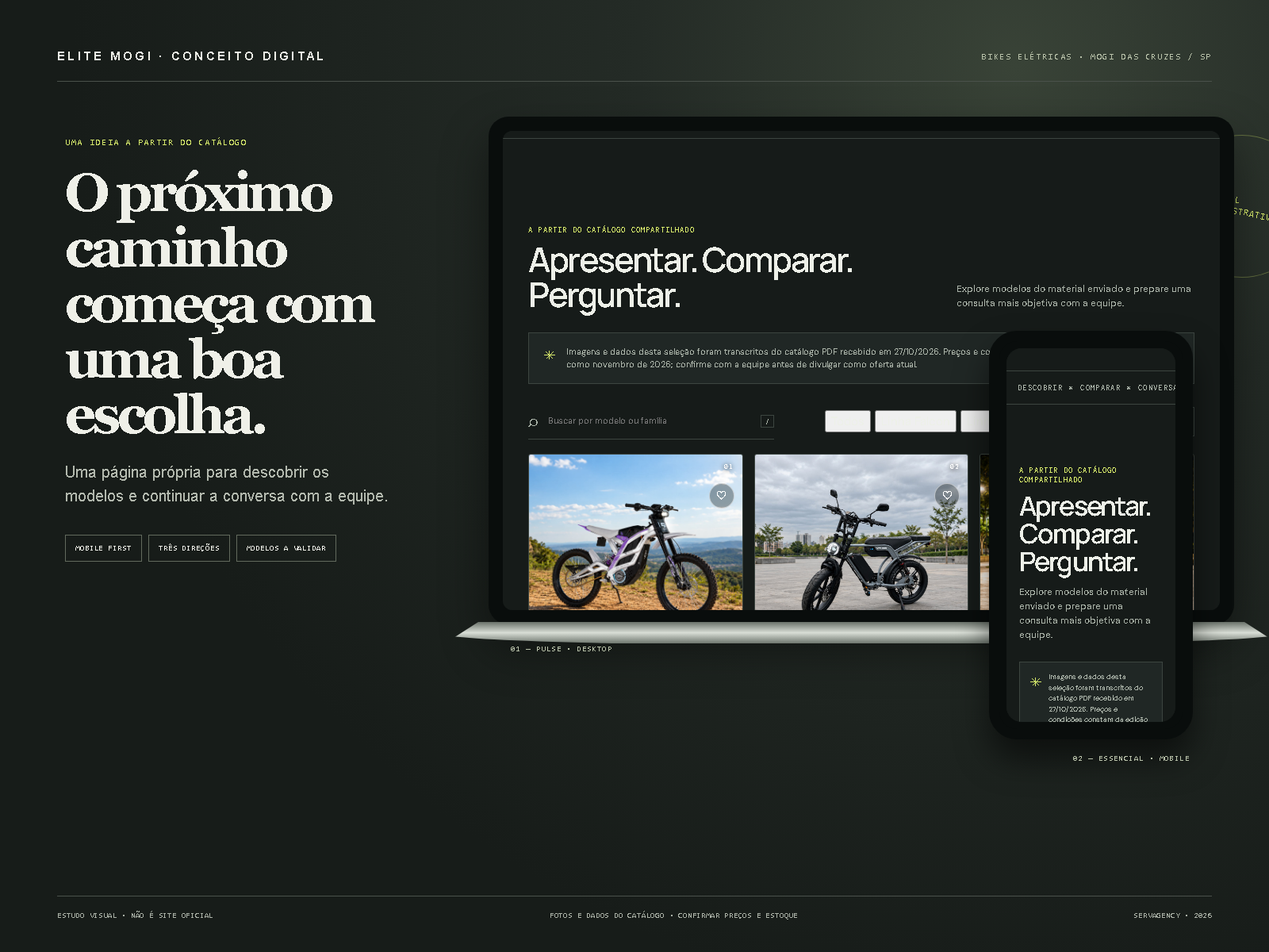
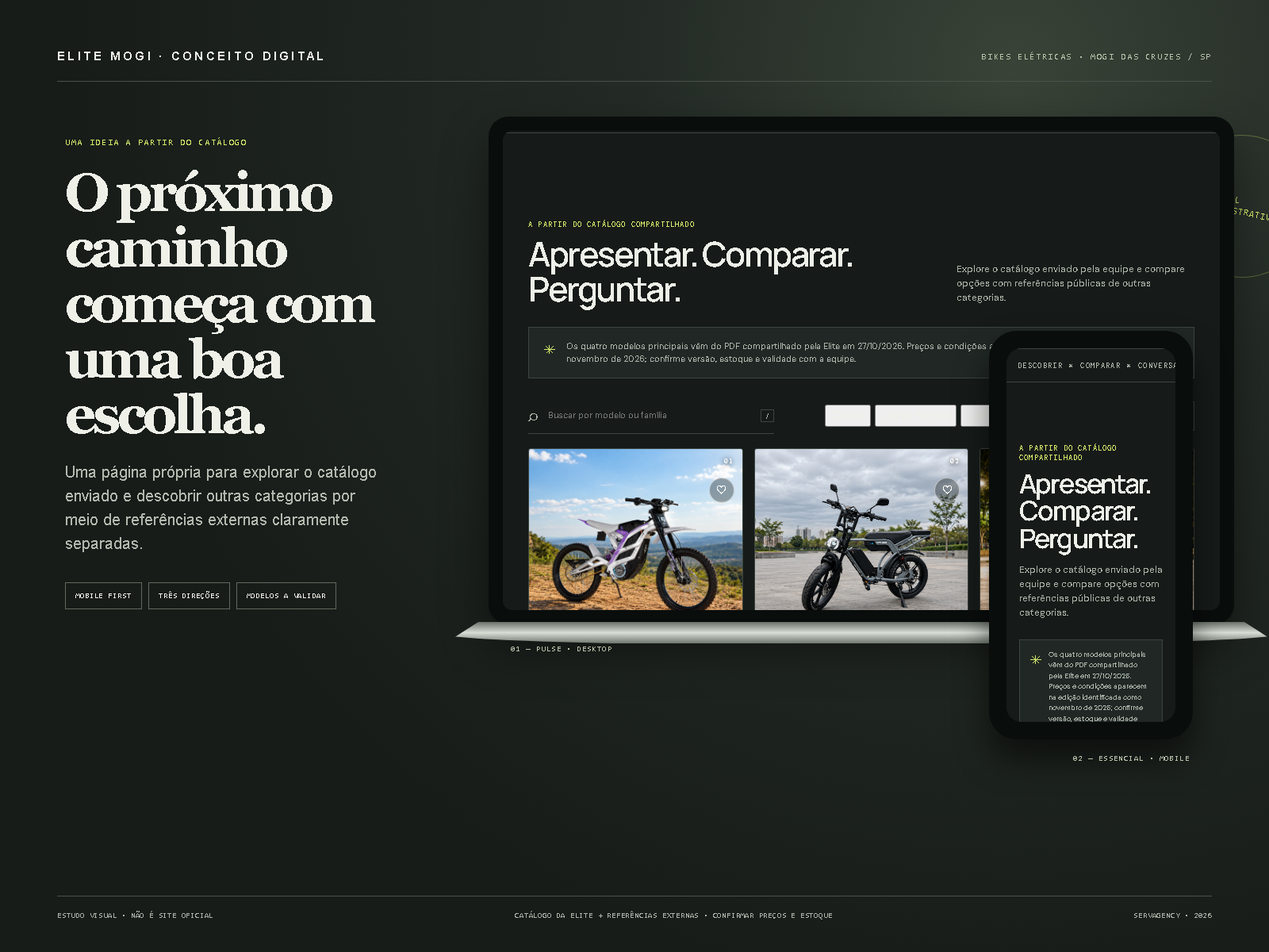
Add external mobility category references

Changed region(s): [[0.4062, 0.2158, 0.9375, 0.7708], [0.0625, 0.4933, 0.3125, 0.5858], [0.8125, 0.4008, 0.875, 0.4317]]

diff --git a/app.js b/app.js
@@ -9,36 +9,51 @@
   const directions = isElite ? ['01 · EDITORIAL', '02 · PULSE', '03 · ESSENCIAL'] : ['01 · ROTA', '02 · CAMPO', '03 · EDITORIAL'];
   const title = isElite ? 'Elétrica.\nFeita para\no seu ritmo.' : 'Uma cidade\ninteira pela\nfrente.';
   const intro = isElite
-    ? 'Um espaço claro para conhecer as bikes elétricas e continuar a conversa com a equipe.'
-    : 'Uma ideia de espaço próprio para conhecer a Taubike e explorar as bicicletas da loja.';
+    ? 'Explore as bikes do catálogo e conheça outras categorias elétricas como referências de mercado.'
+    : 'Uma seleção de modelos reais de mobilidade elétrica para visualizar como um catálogo pode ajudar na escolha.';
   const products = isElite ? [
     { id:'falcon-pro', name:'Falcon Pro', family:'Linha Falcon', image:'assets/catalogo/falcon-pro.jpg', type:'BIKE ELÉTRICA · OFF-ROAD', price:'R$ 39.990', power:'5.000 W', speed:'95 km/h', range:'Até 120 km', battery:'72V · 35Ah', details:'No catálogo enviado: display HD multifunção, freios a disco hidráulicos, NFC, proteção IP67 e recarga informada de 3 a 4 horas.', page:'04' },
     { id:'v29-pro', name:'V29 Pro', family:'Linha V', image:'assets/catalogo/v29-pro.jpg', type:'BIKE ELÉTRICA · ARO 20 × 4', price:'R$ 9.790', power:'1.000 W', speed:'32 km/h', range:'Até 120 km', battery:'Dupla · 48V · 15,6Ah cada', details:'No catálogo enviado: display colorido, freios a disco hidráulicos, câmbio Shimano de 7 marchas e recarga informada de 5 a 8 horas.', page:'06' },
     { id:'v9-max-s', name:'V9 Max S', family:'Linha V', image:'assets/catalogo/v9-max-s.jpg', type:'BIKE ELÉTRICA · ARO 20 × 4', price:'R$ 9.790', power:'1.000 W', speed:'32 km/h', range:'Até 120 km', battery:'Dupla · 48V · 20Ah', details:'No catálogo enviado: display colorido, freios duplos hidráulicos, app Android/iOS, cartão NFC, alarme e cadeado.', page:'13' },
     { id:'y16', name:'Y16', family:'Outros modelos', image:'assets/catalogo/y16.jpg', type:'BIKE ELÉTRICA · ARO 16 × 4', price:'R$ 8.290', power:'750 W', speed:'25 km/h', range:'Até 84 km', battery:'Lítio · 15Ah', details:'No catálogo enviado: display LCD multifuncional, freios hidráulicos a óleo, cesto central, farol LED e proteção IP54.', page:'23' }
   ] : [
-    { id:'bike-01', name:'Bicicleta 01', family:'Bicicletas', type:'EXEMPLO VISUAL', price:'A confirmar', power:'A confirmar', speed:'A confirmar', range:'A confirmar', battery:'A confirmar', details:'Cartão demonstrativo. Nome, imagem e características devem vir do catálogo real da Taubike.', page:'—' },
-    { id:'bike-02', name:'Bicicleta 02', family:'Bicicletas', type:'EXEMPLO VISUAL', price:'A confirmar', power:'A confirmar', speed:'A confirmar', range:'A confirmar', battery:'A confirmar', details:'Cartão demonstrativo. Nome, imagem e características devem vir do catálogo real da Taubike.', page:'—' },
-    { id:'bike-03', name:'Bicicleta 03', family:'Bicicletas', type:'EXEMPLO VISUAL', price:'A confirmar', power:'A confirmar', speed:'A confirmar', range:'A confirmar', battery:'A confirmar', details:'Cartão demonstrativo. Nome, imagem e características devem vir do catálogo real da Taubike.', page:'—' }
+    { id:'e-vibe-lift', name:'Caloi E-Vibe Lift', family:'Bikes elétricas', type:'E-MTB ELÉTRICA', price:'', power:'500 W', speed:'Até 45 km/h', range:'Até 100 km*', battery:'48V · até 940Wh', details:'A página oficial informa motor de 500W, bateria principal de 705Wh e bateria extra de 235Wh. A autonomia de até 100 km é indicada pela Caloi conforme condições de teste e combinação das baterias.', sourceName:'Caloi', sourceUrl:'https://caloi.com/produto/e-vibe-lift/', shape:'bike', reference:true },
+    { id:'watts-bw3', name:'Watts BW3', family:'Bikes elétricas', type:'E-BIKE DOBRÁVEL', price:'', power:'1.000 W', speed:'Até 32 km/h', range:'Até 43 km*', battery:'Lítio · 10,4Ah', details:'A página oficial descreve uma e-bike dobrável aro 20, com bateria removível de 10,4Ah. A autonomia máxima informada é 43 km em pedal assistido; consulte a fabricante para condições e versão.', sourceName:'Watts', sourceUrl:'https://www.wattsmobilidade.com.br/produto-bw3', shape:'bike', reference:true },
+    { id:'watts-w1', name:'Watts W1', family:'Scooters elétricas', type:'SCOOTER ELÉTRICA', price:'', power:'2.000 W', speed:'Consulte fabricante', range:'Até 40 km*', battery:'Removível · bivolt', details:'A fabricante informa motor de 2.000W, bateria removível e autonomia de até 40 km por carga. A página também indica capacidade de carga de até 200 kg; confirme as especificações da versão atual.', sourceName:'Watts', sourceUrl:'https://www.wattsmobilidade.com.br/scooter-watts-w1-inglaterra-2000w-15a-40km-velmax-45kmh', shape:'scooter', reference:true },
+    { id:'shineray-pt3-m1', name:'Shineray PT3 M1', family:'Scooters elétricas', type:'SCOOTER ELÉTRICA · 2 LUGARES', price:'', power:'1.000 W', speed:'Até 32 km/h', range:'Até 40 km*', battery:'Íon-lítio · 60V · 20Ah', details:'A Shineray apresenta a PT3 M1 como scooter elétrica para duas pessoas. A autonomia de até 40 km é indicada em condições favoráveis e no modo de condução I.', sourceName:'Shineray', sourceUrl:'https://www.shineray.com.br/produto/pt3-m1/', shape:'scooter', reference:true },
+    { id:'shineray-pt3', name:'Shineray PT3 Triciclo', family:'Triciclos elétricos', type:'TRICICLO ELÉTRICO', price:'', power:'2.000 W', speed:'Até 45 km/h', range:'Até 40 km por bateria*', battery:'Lítio · 60V · 20Ah', details:'A página oficial indica bateria removível de 60V/20Ah, autonomia estimada de até 40 km por bateria e capacidade para uma segunda bateria. Dados sujeitos à versão e às condições de uso.', sourceName:'Shineray', sourceUrl:'https://www.shineray.com.br/produto/pt3-triciclo/', shape:'tricycle', reference:true }
   ];
+  const marketReferences = isElite ? [
+    { name:'Watts BW3', category:'E-bike dobrável', specs:'1.000 W · até 43 km · até 32 km/h', description:'Referência externa para uma categoria dobrável, não confirmada no estoque da Elite.', sourceName:'Watts', sourceUrl:'https://www.wattsmobilidade.com.br/produto-bw3', shape:'bike' },
+    { name:'Watts W1', category:'Scooter elétrica', specs:'2.000 W · até 40 km por carga', description:'Exemplo de outra categoria de mobilidade; não representa produto anunciado pela Elite.', sourceName:'Watts', sourceUrl:'https://www.wattsmobilidade.com.br/scooter-watts-w1-inglaterra-2000w-15a-40km-velmax-45kmh', shape:'scooter' },
+    { name:'Shineray PT3 Triciclo', category:'Triciclo elétrico', specs:'2.000 W · até 45 km/h · até 40 km por bateria', description:'Referência pública para mostrar uma opção de três rodas; não confirmada como produto da Elite.', sourceName:'Shineray', sourceUrl:'https://www.shineray.com.br/produto/pt3-triciclo/', shape:'tricycle' }
+  ] : [];
   const familyFilters = isElite
     ? [['all','Todos'],['Linha Falcon','Linha Falcon'],['Linha V','Linha V'],['Outros modelos','Outros']]
-    : [['all','Todas'],['Bicicletas','Bicicletas']];
+    : [['all','Todas'],['Bikes elétricas','Bikes elétricas'],['Scooters elétricas','Scooters'],['Triciclos elétricos','Triciclos']];
+  const illustration = (shape='bike') => {
+    const drawings = {
+      bike:'<circle cx="118" cy="166" r="47"/><circle cx="310" cy="166" r="47"/><path d="m118 166 52-74 64 74H118l69-48h70l53 48m-222-74h-36m136 0h38"/><rect x="176" y="104" width="25" height="38" rx="5" class="battery"/>',
+      scooter:'<circle cx="111" cy="178" r="30"/><circle cx="305" cy="178" r="30"/><path d="M111 178h131l31-37h39m-102 37 7-93h45l37 93m-90-93h48m-70 93h-30"/><path d="M194 171h73l-14 12h-59z" class="battery"/>',
+      tricycle:'<circle cx="92" cy="178" r="27"/><circle cx="274" cy="178" r="27"/><circle cx="350" cy="178" r="27"/><path d="M92 178h145l37-78h58l18 78m-134 0 51-78h52m-102 0h58"/><path d="M183 84h88v45h-88z" class="battery"/>'
+    };
+    return `<svg viewBox="0 0 420 250" aria-hidden="true"><path class="orbit" d="M22 201C83 55 221 37 385 120"/>${drawings[shape]||drawings.bike}</svg>`;
+  };
   const filterButtons = familyFilters.map(([value,label], index) => `<button type="button" class="filter${index===0?' active':''}" data-filter="${value}" aria-pressed="${index===0}">${label}</button>`).join('');
   const cards = products.map((product,index) => `<article class="product-card" data-id="${product.id}" data-family="${product.family}" data-search="${`${product.name} ${product.family} ${product.type}`.toLocaleLowerCase('pt-BR')}">
-    <div class="product-visual ${product.image?'has-image':''}">${product.image?`<img src="${product.image}" alt="${product.name}, imagem do catálogo enviado pela Elite Mogi" loading="lazy">`:`<svg viewBox="0 0 420 250" aria-hidden="true"><path class="orbit" d="M22 201C83 55 221 37 385 120"/><circle cx="118" cy="161" r="56"/><circle cx="310" cy="161" r="56"/><path class="frame" d="m118 161 54-84 58 84H118l73-52h72l47 52m-155-84h-39m72 0h29"/><path class="detail" d="m250 109 14-34h42"/></svg>`}<span class="art-label">${product.image?'FOTO DO CATÁLOGO':'ILUSTRAÇÃO · EXEMPLO'}</span><span class="product-number">0${index+1}</span><button class="favorite" type="button" aria-label="Favoritar ${product.name}" aria-pressed="false">♡</button></div>
-    <div class="product-info"><div class="product-meta"><span>${product.type}</span><span>${product.image?'CATÁLOGO · PÁG. '+product.page:'A CONFIRMAR'}</span></div><h3>${product.name}</h3><div class="quick-specs"><span><small>POTÊNCIA</small><b>${product.power}</b></span><span><small>AUTONOMIA*</small><b>${product.range}</b></span></div><div class="product-bottom"><div><small>PREÇO NO CATÁLOGO</small><strong>${product.price}</strong></div><button type="button" class="detail-button" aria-label="Ver detalhes de ${product.name}">Ver detalhes ↗</button></div><button type="button" class="compare-check" aria-pressed="false">＋ Comparar</button></div>
+    <div class="product-visual ${product.image?'has-image':''}">${product.image?`<img src="${product.image}" alt="${product.name}, imagem do catálogo enviado pela Elite Mogi" loading="lazy">`:`${illustration(product.shape)}`}<span class="art-label">${product.image?'FOTO DO CATÁLOGO':'ILUSTRAÇÃO · REFERÊNCIA DE MERCADO'}</span><span class="product-number">0${index+1}</span><button class="favorite" type="button" aria-label="Favoritar ${product.name}" aria-pressed="false">♡</button></div>
+    <div class="product-info"><div class="product-meta"><span>${product.type}</span><span>${product.image?'CATÁLOGO · PÁG. '+product.page:'REFERÊNCIA · '+product.sourceName}</span></div><h3>${product.name}</h3><div class="quick-specs"><span><small>POTÊNCIA</small><b>${product.power}</b></span><span><small>AUTONOMIA*</small><b>${product.range}</b></span></div><div class="product-bottom"><div><small>${product.image?'PREÇO NO CATÁLOGO':'VALOR'}</small><strong>${product.image?product.price:'Consultar fabricante'}</strong></div><button type="button" class="detail-button" aria-label="Ver detalhes de ${product.name}">Ver detalhes ↗</button></div><button type="button" class="compare-check" aria-pressed="false">＋ Comparar</button>${product.sourceUrl?`<a class="source-link" href="${product.sourceUrl}" target="_blank" rel="noopener noreferrer">Fonte oficial · ${product.sourceName} ↗</a>`:''}</div>
   </article>`).join('');
-
+  const marketCards = marketReferences.map(product => `<article class="reference-card"><div class="reference-visual">${illustration(product.shape)}<span>REFERÊNCIA EXTERNA · NÃO CONFIRMADA NO ESTOQUE ELITE</span></div><div class="reference-copy"><p class="eyebrow">${product.category}</p><h3>${product.name}</h3><strong>${product.specs}</strong><p>${product.description}</p><a href="${product.sourceUrl}" target="_blank" rel="noopener noreferrer">Ver fonte oficial · ${product.sourceName} ↗</a></div></article>`).join('');
   app.innerHTML = `
     <div class="concept-bar"><span><i></i> CONCEITO VISUAL · NÃO É SITE OFICIAL</span><div class="directions" role="group" aria-label="Escolher direção visual">${directions.map((d,i)=>`<button type="button" data-theme="${i}" aria-pressed="${i===0}">${d}</button>`).join('')}</div></div>
-    <div class="concept-note"><strong>PRÉVIA DEMONSTRATIVA</strong><span>${isElite?'Fotos e informações transcritas do catálogo enviado · preço e estoque a confirmar':'Produtos e características são exemplos · conteúdo real a confirmar com a loja'}</span></div>
+    <div class="concept-note"><strong>PRÉVIA DEMONSTRATIVA</strong><span>${isElite?'Catálogo enviado pela Elite + referências externas identificadas separadamente · preço e estoque a confirmar':'Referências reais de fabricantes · disponibilidade na Taubike não confirmada'}</span></div>
     <header class="site-header"><a href="#top" class="wordmark">${brand}<sup>®</sup></a><nav aria-label="Navegação"><a href="#modelos">${isElite?'Modelos':'Bicicletas'}</a><a href="#ideia">A ideia</a><a href="#contato">Contato</a></nav><a class="social-link" href="${instagram}" target="_blank" rel="noreferrer">Instagram <span>↗</span></a><button class="menu-button" aria-label="Abrir menu" aria-expanded="false">☰</button></header>
     <main id="top">
-      <section class="hero"><div class="hero-copy"><div class="hero-kicker"><span>UMA PÁGINA PRÓPRIA</span><span>${city}</span></div><p class="eyebrow">${isElite?'MOBILIDADE ELÉTRICA':'BICICLETARIA'}</p><h1>${title.replaceAll('\n','<br>')}</h1><p class="hero-intro">${intro}</p><div class="hero-actions"><a href="#modelos" class="button dark">${isElite?'Explorar modelos':'Explorar bicicletas'} <span>↘</span></a><a href="${instagram}" class="button outline" target="_blank" rel="noreferrer">Acessar Instagram <span>↗</span></a></div><div class="hero-caption"><span>✳</span><span>${isElite?'A equipe ajuda a comparar e confirmar cada modelo.':'Instagram e Facebook seguem ligados ao atendimento da loja.'}</span></div></div>
+      <section class="hero"><div class="hero-copy"><div class="hero-kicker"><span>UMA PÁGINA PRÓPRIA</span><span>${city}</span></div><p class="eyebrow">${isElite?'MOBILIDADE ELÉTRICA':'BICICLETARIA · REFERÊNCIAS DE MOBILIDADE'}</p><h1>${title.replaceAll('\n','<br>')}</h1><p class="hero-intro">${intro}</p><div class="hero-actions"><a href="#modelos" class="button dark">${isElite?'Explorar modelos':'Explorar referências'} <span>↘</span></a><a href="${instagram}" class="button outline" target="_blank" rel="noreferrer">Acessar Instagram <span>↗</span></a></div><div class="hero-caption"><span>✳</span><span>${isElite?'A equipe ajuda a comparar e confirmar cada modelo.':'Redes sociais da loja e exemplos de fabricantes aparecem em áreas distintas.'}</span></div></div>
         <div class="hero-scene"><div class="scene-frame"><svg viewBox="0 0 760 550" role="img" aria-label="Ilustração conceitual de uma bicicleta"><defs><linearGradient id="backdrop" x1="0" y1="0" x2="1" y2="1"><stop offset="0" stop-color="var(--scene-a)"/><stop offset="1" stop-color="var(--scene-b)"/></linearGradient></defs><rect width="760" height="550" fill="url(#backdrop)"/><circle class="sun" cx="574" cy="118" r="55"/><path class="hills" d="M0 373c130-96 222-111 339-36 104-98 216-114 303-55 47-31 83-37 118-28v296H0Z"/><path class="ground" d="M0 453c161-55 397-47 760 17v80H0Z"/><g class="bike"><circle cx="245" cy="363" r="88"/><circle cx="559" cy="363" r="88"/><path d="m245 363 109-170 113 170H245l135-111h113l66 111m-277-170h-69m164 0h45"/><path class="bike-accent" d="m452 244 18-47h55"/></g><text x="43" y="62" class="scene-label">${isElite?'ELITE · 01':'TAUBIKE · 01'}</text><text x="43" y="510" class="scene-sub">${city}</text></svg><span class="scene-index">FIG. 01 · ILUSTRAÇÃO DE CONCEITO</span></div><div class="roundel"><small>${isElite?'CATÁLOGO':'BICICLETAS'}</small><b>${isElite?'ESCOLHA\nCOM CALMA':'NOVOS\nCAMINHOS'}</b><small>CONCEITO · 2026</small></div></div></section>
-      <div class="ticker" aria-hidden="true">${isElite?'DESCOBRIR ✳ COMPARAR ✳ CONVERSAR ✳ ':'PEDALAR ✳ DESCOBRIR ✳ EXPLORAR ✳ '.repeat(2)}</div>
-      <section class="models" id="modelos"><div class="section-top"><div><p class="eyebrow">${isElite?'A PARTIR DO CATÁLOGO COMPARTILHADO':'UMA IDEIA PARA A TAUBIKE'}</p><h2>${isElite?'Apresentar. Comparar. Perguntar.':'Conhecer melhor cada opção.'}</h2></div><p>${isElite?'Explore modelos do material enviado e prepare uma consulta mais objetiva com a equipe.':'Um espaço para a loja reunir o que oferece e orientar o próximo passo.'}</p></div><div class="factual-note"><span>✳</span><p>${isElite?'Imagens e dados desta seleção foram transcritos do catálogo PDF recebido em 27/10/2026. Preços e condições constam da edição identificada como novembro de 2026; confirme com a equipe antes de divulgar como oferta atual.':'Você confirmou que a Taubike vende bicicletas e informou que hoje usa Instagram e Facebook. A seleção abaixo é apenas demonstrativa, sem modelos ou preços inventados.'}</p></div><div class="catalog-tools"><label class="search"><span aria-hidden="true">⌕</span><input type="search" id="search" placeholder="Buscar por modelo ou família" aria-label="Buscar modelos"><kbd>/</kbd></label><div class="filters" role="group" aria-label="Filtrar por família">${filterButtons}</div><button type="button" class="compare-open" id="compare-open">Comparar <span id="compare-count">0</span></button></div><div class="product-grid" id="product-grid">${cards}</div><p class="fine-print">${isElite?'*Autonomia indicada no catálogo; alcance real varia com condições de uso. Confirme preço, versão, estoque e condições com a loja.':'Os cartões são exemplos de estrutura, não representam modelos reais da Taubike.'}</p></section>
+      <div class="ticker" aria-hidden="true">${isElite?'DESCOBRIR ✳ COMPARAR ✳ CONVERSAR ✳ ':'BIKES ✳ SCOOTERS ✳ TRICICLOS ✳ REFERÊNCIAS ✳ '.repeat(2)}</div>
+      <section class="models" id="modelos"><div class="section-top"><div><p class="eyebrow">${isElite?'A PARTIR DO CATÁLOGO COMPARTILHADO':'UMA IDEIA PARA A TAUBIKE'}</p><h2>${isElite?'Apresentar. Comparar. Perguntar.':'Conhecer melhor cada opção.'}</h2></div><p>${isElite?'Explore o catálogo enviado pela equipe e compare opções com referências públicas de outras categorias.':'Exemplos reais de bikes, scooters e triciclos ajudam a visualizar um catálogo; confirme com a loja quais categorias oferece.'}</p></div><div class="factual-note"><span>✳</span><p>${isElite?'Os quatro modelos principais vêm do PDF compartilhado pela Elite em 27/10/2026. Preços e condições aparecem na edição identificada como novembro de 2026; confirme versão, estoque e validade com a equipe.':'Você confirmou que a Taubike vende bicicletas e usa Instagram e Facebook. Os modelos abaixo são produtos reais encontrados nas páginas oficiais dos fabricantes, usados apenas como referências visuais e de comparação; não confirmam venda nem disponibilidade na Taubike.'}</p></div><div class="catalog-tools"><label class="search"><span aria-hidden="true">⌕</span><input type="search" id="search" placeholder="Buscar por modelo ou família" aria-label="Buscar modelos"><kbd>/</kbd></label><div class="filters" role="group" aria-label="Filtrar por família">${filterButtons}</div><button type="button" class="compare-open" id="compare-open">Comparar <span id="compare-count">0</span></button></div><div class="product-grid" id="product-grid">${cards}</div><p class="fine-print">${isElite?'Autonomias e especificações foram transcritas do catálogo recebido; alcance real e oferta devem ser confirmados com a loja.':'Especificações e autonomias são divulgadas pelos fabricantes e variam por versão e condições de uso. As referências não indicam estoque da Taubike.'}</p>${marketReferences.length?`<section class="market-references"><div class="section-top"><div><p class="eyebrow">PARA AMPLIAR A COMPARAÇÃO</p><h2>Outras categorias elétricas.</h2></div><p>Exemplos pesquisados em páginas oficiais. Não fazem parte do catálogo enviado pela Elite nem confirmam estoque.</p></div><div class="reference-grid">${marketCards}</div></section>`:''}</section>
       <section class="story" id="ideia"><div class="story-inner"><div class="story-mark">${isElite?'E':'T'}</div><div class="story-copy"><p class="eyebrow">COMPLEMENTA OS CANAIS ATUAIS</p><h2>${isElite?'A página ajuda na descoberta. A equipe segue junto na decisão.':'Instagram e Facebook continuam fazendo parte da experiência.'}</h2><p>${isElite?'Uma apresentação própria pode organizar os modelos e encaminhar uma consulta contextualizada, preservando o atendimento da equipe.':'A proposta é criar um ponto central para apresentar a loja e conduzir o visitante aos canais que vocês já utilizam.'}</p><a href="${instagram}" target="_blank" rel="noreferrer">Ver Instagram <span>↗</span></a></div><div class="steps"><div><b>01</b><span>Descobrir a loja</span></div><div><b>02</b><span>Explorar opções</span></div><div><b>03</b><span>Continuar a conversa</span></div></div></div></section>
       <section class="contact" id="contato"><div><p class="eyebrow">UM ESPAÇO PRÓPRIO, LIGADO À LOJA</p><h2>O próximo passo fica simples.</h2><p>${isElite?'Escolha opções e fale com a equipe para confirmar os detalhes.':'Conheça a ideia e siga pelo Instagram da Taubike.'}</p></div><div class="contact-card"><span>${city}</span><h3>${brand}</h3><p>${isElite?'Catálogo recebido; confirmar modelos, preços e disponibilidade com a equipe.':'Conceito preparado a partir da confirmação de que a Taubike vende bicicletas.'}</p><a class="button dark" href="${isElite?whatsapp:instagram}" target="_blank" rel="noreferrer">${isElite?'Consultar pelo WhatsApp':'Continuar no Instagram'} <span>↗</span></a><small>${isElite?'Número de WhatsApp publicado no catálogo; envio da mensagem depende da pessoa.':'Perfil informado na conversa.'}</small></div></section>
     </main>
@@ -87,7 +102,7 @@
       button.textContent = chosen ? '✓ Na comparação' : '＋ Comparar';
     });
     const chosenProducts = products.filter(product => selected.has(product.id));
-    document.querySelector('#compare-content').innerHTML = chosenProducts.length ? `<div class="compare-table"><div class="compare-row compare-head-row"><b>MODELO</b>${chosenProducts.map(product=>`<b>${product.name}</b>`).join('')}</div>${[['PREÇO','price'],['POTÊNCIA','power'],['VELOCIDADE INDICADA','speed'],['AUTONOMIA INDICADA','range'],['BATERIA','battery']].map(([label,key])=>`<div class="compare-row"><span>${label}</span>${chosenProducts.map(product=>`<span>${product[key]}</span>`).join('')}</div>`).join('')}</div>` : '<p class="empty-compare">Escolha até três modelos no catálogo para comparar.</p>';
+    document.querySelector('#compare-content').innerHTML = chosenProducts.length ? `<div class="compare-table"><div class="compare-row compare-head-row"><b>MODELO</b>${chosenProducts.map(product=>`<b>${product.name}</b>`).join('')}</div>${[['PREÇO','price'],['POTÊNCIA','power'],['VELOCIDADE INDICADA','speed'],['AUTONOMIA INDICADA','range'],['BATERIA','battery']].map(([label,key])=>`<div class="compare-row"><span>${label}</span>${chosenProducts.map(product=>`<span>${key==='price'&&product.reference?'Consultar fabricante':product[key]||'Não informado'}</span>`).join('')}</div>`).join('')}</div>` : '<p class="empty-compare">Escolha até três modelos no catálogo para comparar.</p>';
     const message = isElite ? `Olá! Gostaria de tirar uma dúvida sobre ${chosenProducts.map(product=>product.name).join(', ') || 'os modelos do catálogo'}.` : '';
     document.querySelector('#selection-contact').href = isElite ? `${whatsapp}?text=${encodeURIComponent(message)}` : instagram;
   };
@@ -115,8 +130,9 @@
   const dialogContent = document.querySelector('#dialog-content');
   document.querySelectorAll('.detail-button').forEach(button => button.addEventListener('click', () => {
     const product = products.find(item => item.id === button.closest('.product-card').dataset.id);
-    const imageMarkup = product.image ? `<img class="dialog-product-image" src="${product.image}" alt="${product.name}, foto do catálogo Elite Mogi">` : `<div class="dialog-illustration">BICICLETA · EXEMPLO VISUAL</div>`;
-    dialogContent.innerHTML = `<div class="dialog-layout">${imageMarkup}<div><p class="eyebrow">${product.type}</p><h2>${product.name}</h2><p class="dialog-price">${product.price}<small>${isElite?'valor indicado no catálogo · confirmar':'a confirmar com a loja'}</small></p><div class="dialog-specs"><div><span>Potência</span><b>${product.power}</b></div><div><span>Velocidade indicada</span><b>${product.speed}</b></div><div><span>Autonomia indicada</span><b>${product.range}</b></div><div><span>Bateria</span><b>${product.battery}</b></div></div><p class="dialog-description">${product.details}</p><p class="dialog-source">${isElite?`Fonte: catálogo enviado pela equipe, página ${product.page}. Confirme versão, preço, estoque e condições diretamente com a loja.`:'Exemplo demonstrativo; os dados reais precisam ser confirmados com a Taubike.'}</p><a class="button dark" href="${isElite?`${whatsapp}?text=${encodeURIComponent(`Olá! Gostaria de saber mais sobre ${product.name}.`)}`:instagram}" target="_blank" rel="noreferrer">${isElite?'Perguntar sobre este modelo':'Acessar Instagram'} <span>↗</span></a></div></div>`;
+    const imageMarkup = product.image ? `<img class="dialog-product-image" src="${product.image}" alt="${product.name}, foto do catálogo Elite Mogi">` : `<div class="dialog-illustration">ILUSTRAÇÃO DE REFERÊNCIA</div>`;
+    const productSource = product.sourceUrl ? `<a href="${product.sourceUrl}" target="_blank" rel="noopener noreferrer">Fonte oficial: ${product.sourceName} ↗</a>` : `Fonte: catálogo enviado pela equipe, página ${product.page}.`;
+    dialogContent.innerHTML = `<div class="dialog-layout">${imageMarkup}<div><p class="eyebrow">${product.type}</p><h2>${product.name}</h2><p class="dialog-price">${product.reference?'Preço não incluído':product.price}<small>${product.reference?'consulte o fabricante; referência externa, não confirma estoque':isElite?'valor indicado no PDF recebido · confirmar validade':'a confirmar com a loja'}</small></p><div class="dialog-specs"><div><span>Potência</span><b>${product.power}</b></div><div><span>Velocidade indicada</span><b>${product.speed}</b></div><div><span>Autonomia indicada</span><b>${product.range}</b></div><div><span>Bateria</span><b>${product.battery}</b></div></div><p class="dialog-description">${product.details}</p><p class="dialog-source">${product.reference?'Referência de mercado pesquisada em página oficial. Não confirma venda ou disponibilidade na loja. ':isElite?`Confirme versão, preço, estoque e condições diretamente com a equipe. `:'Referência de fabricante; disponibilidade na Taubike não confirmada. '}${productSource}</p><a class="button dark" href="${isElite?`${whatsapp}?text=${encodeURIComponent(`Olá! Gostaria de saber mais sobre ${product.name}.`)}`:instagram}" target="_blank" rel="noreferrer">${isElite?'Perguntar à Elite sobre o catálogo':'Acessar Instagram da Taubike'} <span>↗</span></a></div></div>`;
     dialog.showModal();
   }));
   document.querySelector('.dialog-close').addEventListener('click', () => dialog.close());

diff --git a/site.css b/site.css
@@ -7,3 +7,23 @@ body[data-theme="1"] .hero{grid-template-columns:.92fr 1.08fr}body[data-theme="1
 .catalog-tools{display:flex;align-items:center;justify-content:space-between;gap:16px;margin:15px 0 18px}.catalog-tools .search{margin:0;flex:1;max-width:310px}.filters{display:flex;gap:5px;flex-wrap:wrap}.compare-open{border:1px solid var(--line);background:transparent;padding:8px 11px;font:8px var(--mono);cursor:pointer}.compare-open span{display:inline-grid;place-items:center;background:var(--accent);color:#fff;width:19px;height:19px;border-radius:50%;margin-left:5px}.product-visual{height:240px;position:relative;display:grid;place-items:center;overflow:hidden;background:linear-gradient(135deg,var(--scene-a),var(--scene-b))}.product-visual>img{width:100%;height:100%;object-fit:cover;transition:transform .5s}.product-card:hover .product-visual>img{transform:scale(1.035)}.product-visual>svg{width:90%;max-height:200px;fill:none;stroke:var(--ink);stroke-width:6;stroke-linecap:round;stroke-linejoin:round}.product-visual .orbit{stroke:var(--accent);stroke-width:2;stroke-dasharray:4 6;opacity:.7}.product-visual .frame{stroke-width:6}.product-visual .detail{stroke:var(--accent);stroke-width:7}.product-number{position:absolute;right:11px;top:10px;font:8px var(--mono);color:#fff;text-shadow:0 1px 6px #000}.product-visual:not(.has-image) .product-number{color:var(--ink);text-shadow:none}.art-label{position:absolute;left:11px;bottom:10px;background:var(--surface);color:var(--ink);padding:5px 7px;font:7px var(--mono);letter-spacing:.08em}.favorite{position:absolute;right:10px;top:36px;width:32px;height:32px;border:1px solid #ffffff88;border-radius:50%;background:#171d195c;color:#fff;font-size:19px;line-height:1;cursor:pointer}.favorite[aria-pressed="true"]{background:#bf4d32;border-color:#bf4d32}.product-meta{display:flex;justify-content:space-between;gap:8px;color:var(--accent);font:7px var(--mono);letter-spacing:.08em}.product-info{padding:16px}.product-info h3{font:600 22px/1.12 var(--serif);letter-spacing:-.035em;margin:14px 0 13px}.quick-specs{display:grid;grid-template-columns:1fr 1fr;gap:8px;margin-bottom:14px}.quick-specs span{display:flex;flex-direction:column;gap:2px;border-top:1px solid var(--line);padding-top:8px}.quick-specs small,.product-bottom small{font:7px var(--mono);letter-spacing:.06em;color:var(--muted)}.quick-specs b{font:500 12px var(--sans)}.product-bottom{display:flex;justify-content:space-between;align-items:end;gap:8px}.product-bottom>div{display:flex;flex-direction:column;gap:4px}.product-bottom strong{font:700 15px var(--sans)}.detail-button{border:0;border-bottom:1px solid var(--accent);background:transparent;padding:4px 0;font:8px var(--mono);cursor:pointer}.compare-check{width:100%;border:1px solid var(--line);background:transparent;padding:9px 10px;margin-top:13px;text-align:left;font:8px var(--mono);cursor:pointer}.compare-check.selected{background:var(--ink);border-color:var(--ink);color:var(--paper)}.compare-dock{position:fixed;z-index:10;bottom:15px;left:50%;transform:translateX(-50%);display:flex;align-items:center;gap:12px;background:var(--ink);color:var(--paper);padding:9px 12px 9px 17px;box-shadow:0 12px 35px #1015103d;font:9px var(--mono);white-space:nowrap}.compare-dock[hidden],.compare-shade[hidden]{display:none}.compare-dock button{border:1px solid #788074;background:transparent;color:inherit;padding:7px 10px;font:8px var(--mono);cursor:pointer}.compare-dock button:last-child{border:0;font-size:17px;padding:2px 6px}.compare-shade{position:fixed;z-index:11;inset:0;background:#0b100dc2}.compare-panel{position:fixed;z-index:12;top:0;right:0;bottom:0;width:min(630px,100%);background:var(--surface);border-left:1px solid var(--line);padding:25px;transform:translateX(102%);transition:transform .25s ease;display:flex;flex-direction:column;overflow:auto}.compare-panel.open{transform:translateX(0)}.panel-head{display:flex;justify-content:space-between;align-items:start;border-bottom:1px solid var(--line);padding-bottom:17px}.panel-head small{font:8px var(--mono);color:var(--accent);letter-spacing:.12em}.panel-head h2{font:600 34px var(--serif);margin:8px 0 0}.panel-head button{border:1px solid var(--line);background:transparent;width:34px;height:34px;font-size:19px;cursor:pointer}.compare-content{overflow:auto;flex:1}.compare-table{margin-top:16px;min-width:450px}.compare-row{display:grid;grid-template-columns:120px repeat(3,minmax(90px,1fr));border-bottom:1px solid var(--line)}.compare-row>*{padding:12px 8px;font-size:10px}.compare-row>span:first-child{font:7px var(--mono);color:var(--muted);letter-spacing:.05em}.compare-head-row{color:var(--accent);font:8px var(--mono)}.empty-compare{padding:20px 0;color:var(--muted);font-size:12px}.panel-bottom{border-top:1px solid var(--line);padding-top:14px}.panel-bottom p{font-size:10px;color:var(--muted)}.panel-bottom .button{width:100%}.detail-dialog{width:min(850px,calc(100% - 30px));max-height:calc(100% - 30px);padding:30px;background:var(--surface);color:var(--ink);border:1px solid var(--line)}.detail-dialog::backdrop{background:#0b100dc4}.dialog-close{float:right;width:34px;height:34px;border:1px solid var(--line);background:transparent;font-size:20px;cursor:pointer}.dialog-layout{display:grid;grid-template-columns:.88fr 1fr;gap:28px;align-items:center}.dialog-product-image{width:100%;aspect-ratio:1/1;object-fit:cover}.dialog-illustration{aspect-ratio:1/1;display:grid;place-items:center;background:var(--scene-a);color:var(--muted);font:10px var(--mono)}.dialog-layout h2{font:600 42px var(--serif);margin:8px 0}.dialog-price{font:700 20px var(--sans);margin:0}.dialog-price small{display:block;font:8px var(--mono);color:var(--muted);margin-top:3px}.dialog-specs{display:grid;grid-template-columns:1fr 1fr;gap:9px 15px;margin:20px 0}.dialog-specs div{border-top:1px solid var(--line);padding-top:7px;display:flex;flex-direction:column;gap:3px}.dialog-specs span,.dialog-source{font:8px var(--mono);color:var(--muted)}.dialog-specs b{font-size:11px}.dialog-description{font-size:10px;color:var(--muted)}.dialog-source{line-height:1.6}.dialog-layout .button{margin-top:8px}.product-card[hidden]{display:none}
 @media(max-width:900px){.catalog-tools{flex-wrap:wrap}.catalog-tools .search{max-width:none;flex-basis:100%}.filters{flex:1}.product-visual{height:215px}}
 @media(max-width:600px){.catalog-tools{gap:10px}.filters{width:100%;order:2}.compare-open{order:3}.product-visual{height:225px}.product-info h3{font-size:21px}.compare-dock{bottom:8px;width:calc(100% - 16px);justify-content:space-between;gap:5px;padding:8px 10px;font-size:8px}.compare-dock button{font-size:7px}.compare-panel{padding:18px}.panel-head h2{font-size:29px}.compare-table{min-width:430px}.detail-dialog{padding:15px}.dialog-layout{grid-template-columns:1fr;gap:16px}.dialog-product-image,.dialog-illustration{max-height:265px;aspect-ratio:1.35/1;object-fit:cover}.dialog-layout h2{font-size:34px}.dialog-specs{margin:13px 0}}
+
+/* Market references: visually distinct from the store-confirmed catalog. */
+.market-references{margin-top:82px;padding-top:38px;border-top:1px solid var(--line)}
+.reference-grid{display:grid;grid-template-columns:repeat(3,minmax(0,1fr));gap:14px}
+.reference-card{background:var(--surface);border:1px solid var(--line);min-width:0}
+.reference-visual{height:190px;position:relative;display:grid;place-items:center;overflow:hidden;background:linear-gradient(135deg,var(--scene-a),var(--scene-b))}
+.reference-visual svg{width:88%;max-height:160px;fill:none;stroke:var(--ink);stroke-width:6;stroke-linecap:round;stroke-linejoin:round}
+.reference-visual .orbit{stroke:var(--accent);stroke-width:2;stroke-dasharray:4 6;opacity:.7}
+.reference-visual .battery{fill:var(--accent);stroke:none;opacity:.82}
+.reference-visual span{position:absolute;left:10px;right:10px;bottom:10px;padding:6px;background:var(--surface);font:7px var(--mono);letter-spacing:.05em;text-align:center}
+.reference-copy{padding:17px}
+.reference-copy .eyebrow{margin:0 0 9px}
+.reference-copy h3{font:600 22px/1.12 var(--serif);margin:0 0 9px}
+.reference-copy strong{font-size:11px}
+.reference-copy>p:not(.eyebrow){font-size:10px;color:var(--muted);line-height:1.55}
+.reference-copy>a,.source-link,.dialog-source a{display:inline-block;margin-top:6px;color:var(--accent);font:8px var(--mono);text-decoration:underline;text-underline-offset:3px}
+.source-link{margin:9px 0 0}
+.reference-card .reference-copy p{min-height:0}
+@media(max-width:900px){.reference-grid{grid-template-columns:repeat(2,minmax(0,1fr))}}
+@media(max-width:600px){.reference-grid{grid-template-columns:1fr}.reference-visual{height:215px}.market-references{margin-top:55px}}

diff --git a/arte/apresentacao.html b/arte/apresentacao.html
@@ -1,0 +1,1 @@
+<!doctype html><html lang="pt-BR"><head><meta charset="utf-8"><meta name="viewport" content="width=device-width,initial-scale=1"><title>Elite Mogi — apresentação do conceito</title><style>*{box-sizing:border-box}body{margin:0;background:#1b201d;color:#eff0e8;font-family:Arial,sans-serif}.board{width:1600px;height:1200px;padding:62px 72px;background:radial-gradient(circle at 80% 7%,#394337 0,#242b26 28%,#171c19 70%);position:relative;overflow:hidden}.head{display:flex;justify-content:space-between;align-items:center;border-bottom:1px solid #4a514b;padding-bottom:22px}.brand{font-size:15px;letter-spacing:.22em;font-weight:bold}.tag{font:11px monospace;letter-spacing:.15em;color:#b8c1a9}.main{display:grid;grid-template-columns:500px 1fr;gap:44px;margin-top:44px}.intro{padding:26px 10px}.eyebrow{font:11px monospace;letter-spacing:.15em;color:#d6e96b}.intro h1{font:600 68px/1.03 Georgia,serif;letter-spacing:-.06em;margin:22px 0}.intro p{font-size:20px;line-height:1.5;color:#b2b8ad;max-width:410px}.chips{display:flex;gap:8px;margin-top:34px}.chips span{border:1px solid #626a5d;padding:10px 12px;font:10px monospace;letter-spacing:.09em}.screen-area{position:relative;height:830px}.laptop{position:absolute;left:0;top:0;width:940px;height:640px;background:#090d0c;border-radius:25px;padding:18px;box-shadow:0 28px 60px #0007}.laptop iframe{width:100%;height:100%;border:0;background:#161b19;border-radius:12px}.base{position:absolute;top:637px;left:-55px;width:1050px;height:30px;background:linear-gradient(#697169,#d8ddd5 45%,#565f57);clip-path:polygon(4% 0,96% 0,100% 90%,0 90%);border-radius:0 0 50% 50%}.phone{position:absolute;right:24px;top:270px;width:257px;height:515px;border:13px solid #090d0c;border-radius:35px;background:#090d0c;padding:9px;box-shadow:0 25px 40px #0008}.phone iframe{width:100%;height:100%;border:0;border-radius:19px;background:#161b19}.phone-label,.desktop-label{font:10px monospace;letter-spacing:.14em;color:#b8c1a9}.desktop-label{position:absolute;top:665px;left:28px}.phone-label{position:absolute;right:28px;top:803px}.foot{position:absolute;left:72px;right:72px;bottom:40px;border-top:1px solid #4a514b;padding-top:18px;display:flex;justify-content:space-between;font:10px monospace;letter-spacing:.08em;color:#aab1a6}.mark{position:absolute;width:180px;height:180px;border:1px solid #d6e96b55;border-radius:50%;right:-56px;top:170px;display:grid;place-items:center;color:#d6e96b;font:12px monospace;transform:rotate(12deg)}</style></head><body><main class="board"><header class="head"><div class="brand">ELITE MOGI · CONCEITO DIGITAL</div><div class="tag">BIKES ELÉTRICAS · MOGI DAS CRUZES / SP</div></header><div class="main"><section class="intro"><div class="eyebrow">UMA IDEIA A PARTIR DO CATÁLOGO</div><h1>O próximo caminho começa com uma boa escolha.</h1><p>Uma página própria para explorar o catálogo enviado e descobrir outras categorias por meio de referências externas claramente separadas.</p><div class="chips"><span>MOBILE FIRST</span><span>TRÊS DIREÇÕES</span><span>MODELOS A VALIDAR</span></div><div class="mark">VISUAL<br>DEMONSTRATIVO</div></section><section class="screen-area"><div class="laptop"><iframe src="../index.html?theme=1&v=market-20261027#modelos" title="Prévia desktop do conceito Elite Mogi"></iframe></div><div class="base"></div><div class="desktop-label">01 — PULSE · DESKTOP</div><div class="phone"><iframe src="../index.html?theme=2&v=market-20261027#modelos" title="Prévia mobile do conceito Elite Mogi"></iframe></div><div class="phone-label">02 — ESSENCIAL · MOBILE</div></section></div><footer class="foot"><span>ESTUDO VISUAL · NÃO É SITE OFICIAL</span><span>CATÁLOGO DA ELITE + REFERÊNCIAS EXTERNAS · CONFIRMAR PREÇOS E ESTOQUE</span><span>SERVAGENCY · 2026</span></footer></main></body></html>

diff --git a/index.html b/index.html
@@ -5,10 +5,10 @@
   <meta name="theme-color" content="#151a19">
   <meta name="description" content="Conceito demonstrativo para apresentar os modelos elétricos da Elite Mogi. Conteúdo e modelos a confirmar com a loja.">
   <title>Elite Mogi — conceito digital</title>
-  <link rel="stylesheet" href="site.css">
+  <link rel="stylesheet" href="site.css?v=market-20261027">
 </head>
 <body data-lead="elite">
   <div id="app"></div>
-  <script src="app.js" defer></script>
+  <script src="app.js?v=market-20261027" defer></script>
 </body>
 </html>
